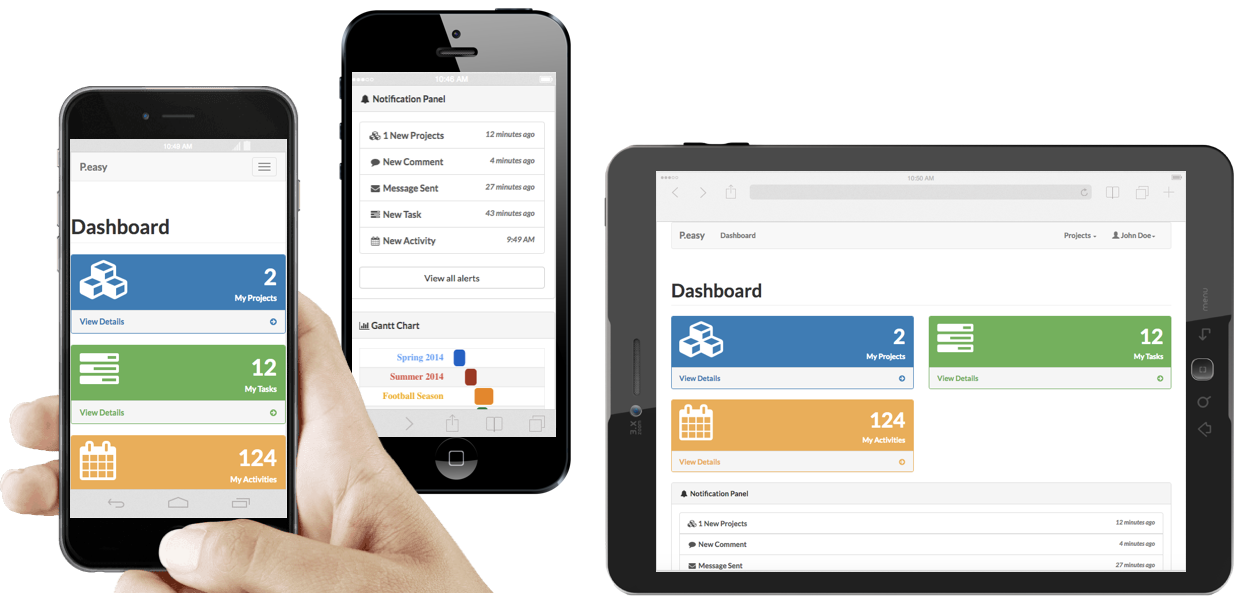
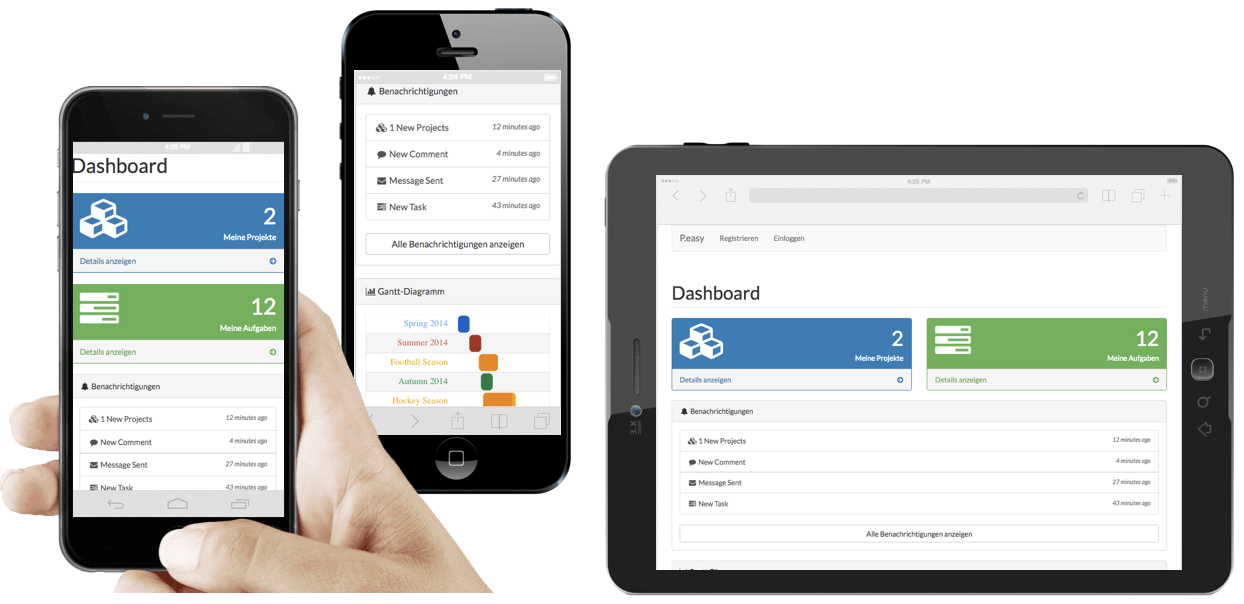
Removed "My Activity" on Dashboard, Improvement of Index pictures

diff --git a/src/main/java/views/ApplicationController/dashboard.ftl.html b/src/main/java/views/ApplicationController/dashboard.ftl.html
@@ -79,7 +79,7 @@
 			</div>
 			<!-- /.row -->
 			<div class="row">
-				<div class="col-lg-4 col-md-6">
+				<div class="col-lg-6 col-md-6">
 					<div class="panel panel-primary">
 						<div class="panel-heading">
 							<div class="row">
@@ -102,7 +102,7 @@
 						</a>
 					</div>
 				</div>
-				<div class="col-lg-4 col-md-6">
+				<div class="col-lg-6 col-md-6">
 					<div class="panel panel-green">
 						<div class="panel-heading">
 							<div class="row">
@@ -112,29 +112,6 @@
 								<div class="col-xs-9 text-right">
 									<div class="huge">12</div>
 									<div>${i18n("dashboard.mytasks")}</div>
-								</div>
-							</div>
-						</div>
-						<a href="#">
-							<div class="panel-footer">
-								<span class="pull-left">${i18n("dashboard.viewdetails")}</span>
-								<span class="pull-right"><i
-									class="fa fa-arrow-circle-right"></i></span>
-								<div class="clearfix"></div>
-							</div>
-						</a>
-					</div>
-				</div>
-				<div class="col-lg-4 col-md-6">
-					<div class="panel panel-yellow">
-						<div class="panel-heading">
-							<div class="row">
-								<div class="col-xs-3">
-									<i class="fa fa-calendar fa-5x"></i>
-								</div>
-								<div class="col-xs-9 text-right">
-									<div class="huge">124</div>
-									<div>${i18n("dashboard.myactivities")}</div>
 								</div>
 							</div>
 						</div>
@@ -177,10 +154,7 @@
 										class="fa fa-tasks fa-fw"></i> New Task <span
 										class="pull-right text-muted small"><em>43 minutes
 												ago</em> </span>
-								</a> <a href="#" class="list-group-item"> <i
-										class="fa fa-calendar fa-fw"></i> New Activity <span
-										class="pull-right text-muted small"><em>9:49 AM</em> </span>
-								</a>
+								</a> 
 							</div>
 							<!-- /.list-group -->
 							<a href="#" class="btn btn-default btn-block">${i18n("dashboard.alerts")}</a>
